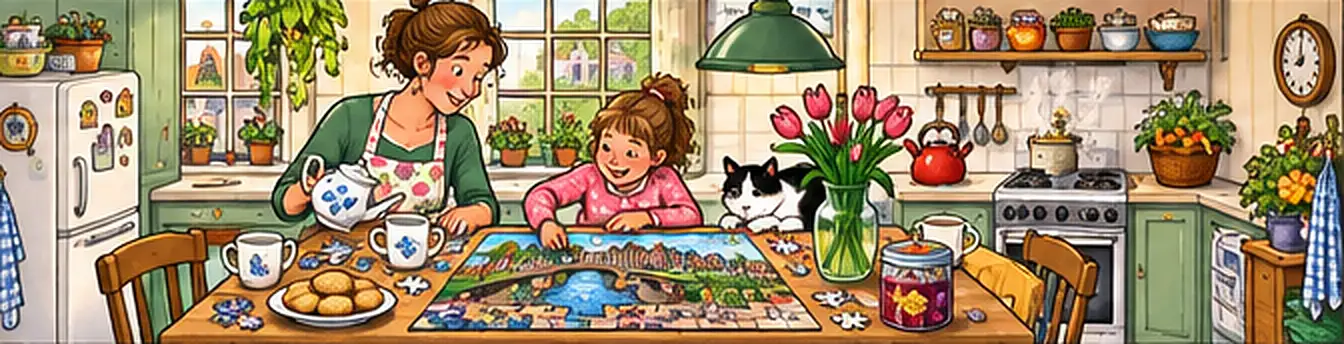
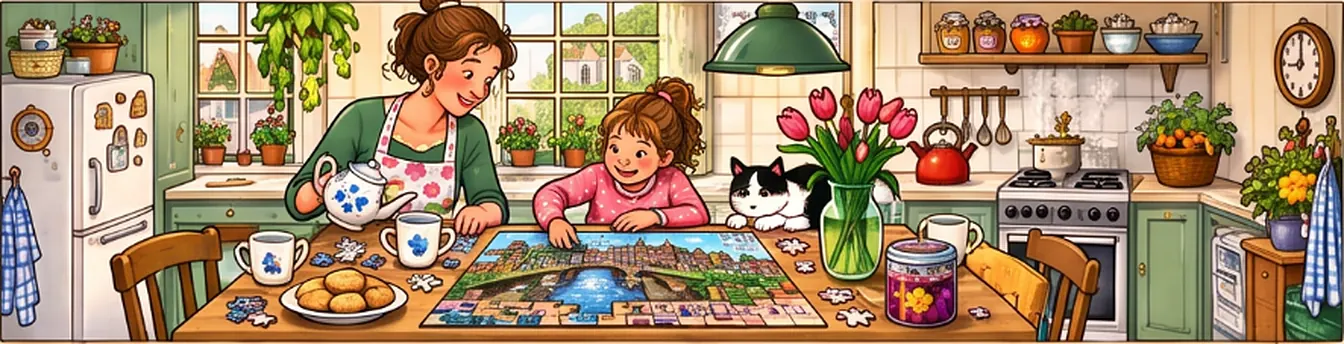
feat(web): use the owner's new house art and Dorpsstraat lid
Replace the hero with the owner's 2000px render, cut out on a transparent sky,
with its clipped roof finished from its own tiles under a Dutch break in the
pitch. Re-measure the floors, pins and phone window for the new geometry. Re-cut
the kitchen, living room, bedroom and attic crops from the same art, and make the
Dorpsstraat cover the owner's real box lid. Keep both originals in assets/.

Intent: the first screen stays sharp on large and retina screens and shows boxes
in more of the house, while every promise holds: all three pins on the first
screen from 1280x720 up, each pin on its own floor on a phone, the roof clear of
the headline, and no sky halo on the dark theme. The file is smaller than the art
it replaces. The roof's finish lives in the webp, not in code, so a future render
with headroom simply replaces it after the same measurements.

diff --git a/apps/web/src/components/marketing/home/hero.tsx b/apps/web/src/components/marketing/home/hero.tsx
@@ -34,7 +34,7 @@ const PUZZLES = {
 // A box's width in the shelf's cover column follows its piece count, so the row reads as real boxes.
 const BOX_WIDTH = { 500: "w-[68%]", 1000: "w-[85%]", 2000: "w-full" } as const;
 
-// Each person lives on a floor of house-cut.webp (1536x950) and is who the art shows there. `floor` is
+// Each person lives on a floor of house-cut.webp (2000x1228) and is who the art shows there. `floor` is
 // the height the drawer's notch points at, in art pixels. `pin` places the button on the art, high in
 // the floor so the lowest pin clears the fold on a short laptop; `phonePin` keeps the larger-looking
 // button wholly on its floor and clear of the wall at phone scale. `hole` is the even-odd polygon that
@@ -43,29 +43,29 @@ const PEOPLE = [
   {
     id: "sanne",
     name: "Sanne",
-    floor: 330,
+    floor: 427,
     boxes: ["theekoepel", "tulpen", "eendenvijver", "grachtje"],
-    pin: { x: "41.7%", y: "28.6%" },
-    phonePin: { x: "36%", y: "37.2%" },
-    hole: "polygon(evenodd,0 0,100% 0,100% 100%,0 100%,0 0,27.55% 25.6%,71.95% 25.6%,71.95% 44.1%,27.55% 44.1%,27.55% 25.6%)",
+    pin: { x: "36%", y: "31%" },
+    phonePin: { x: "32.4%", y: "36.8%" },
+    hole: "polygon(evenodd,0 0,100% 0,100% 100%,0 100%,0 0,27.6% 25.41%,71.9% 25.41%,71.9% 44.14%,27.6% 44.14%,27.6% 25.41%)",
   },
   {
     id: "opa",
     name: "Opa Wim",
-    floor: 520,
+    floor: 675,
     boxes: ["dorpsstraat", "molen", "grachtje"],
-    pin: { x: "30.6%", y: "56.6%" },
-    phonePin: { x: "35%", y: "56.7%" },
-    hole: "polygon(evenodd,0 0,100% 0,100% 100%,0 100%,0 0,27.55% 45%,71.95% 45%,71.95% 64.85%,27.55% 64.85%,27.55% 45%)",
+    pin: { x: "32%", y: "51.5%" },
+    phonePin: { x: "33.85%", y: "56.35%" },
+    hole: "polygon(evenodd,0 0,100% 0,100% 100%,0 100%,0 0,27.6% 44.95%,71.9% 44.95%,71.9% 65.07%,27.6% 65.07%,27.6% 44.95%)",
   },
   {
     id: "marieke",
     name: "Marieke",
-    floor: 690,
+    floor: 922,
     boxes: ["amsterdam", "tulpen"],
-    pin: { x: "34.4%", y: "67.4%" },
-    phonePin: { x: "35%", y: "77.5%" },
-    hole: "polygon(evenodd,0 0,100% 0,100% 100%,0 100%,0 0,27.55% 65.75%,71.95% 65.75%,71.95% 84.15%,27.55% 84.15%,27.55% 65.75%)",
+    pin: { x: "34%", y: "69.8%" },
+    phonePin: { x: "33.45%", y: "77.2%" },
+    hole: "polygon(evenodd,0 0,100% 0,100% 100%,0 100%,0 0,27.6% 65.8%,71.9% 65.8%,71.9% 84.45%,27.6% 84.45%,27.6% 65.8%)",
   },
 ] as const satisfies ReadonlyArray<{
   id: string;
@@ -148,7 +148,7 @@ function ShelfRow({
 
 // The street with the fronts off: the sky's text, then the cutaway house edge to edge, with a pin on
 // each of three floors. Choosing a pin strikes that floor forward and docks that person's shelf.
-// Phone: title, the house alone (a window on the art from x 370 to 1140 and y 80 to 810), sentence,
+// Phone: title, the house alone (a window on the art from x 495 to 1495 and y 0 to 1040), sentence,
 // actions, shelf.
 export function Hero() {
   const t = useTranslations("marketing");
@@ -184,7 +184,7 @@ export function Hero() {
       const drawer = drawerRef.current;
       if (!art || !drawer) return;
       const box = drawer.getBoundingClientRect();
-      const y = art.top + person.floor * (art.width / 1536) - box.top - 18;
+      const y = art.top + person.floor * (art.width / 2000) - box.top - 18;
       const notch = Math.max(12, Math.min(box.height - 48, y));
       drawer.style.setProperty("--notch", `${notch}px`);
     };
@@ -240,15 +240,15 @@ export function Hero() {
         </div>
       </div>
 
-      <div className="contents min-[760px]:relative min-[760px]:block min-[1180px]:mt-[calc(100cqw/1536*-86+14px)]">
-        <div className="relative order-2 h-[calc(100cqw/770*730)] overflow-hidden min-[760px]:h-auto min-[760px]:overflow-visible">
-          <div className="absolute top-[calc(100cqw/770*-80)] left-[calc(100cqw/770*-370)] w-[calc(100cqw/770*1536)] min-[760px]:relative min-[760px]:top-0 min-[760px]:left-0 min-[760px]:w-full">
+      <div className="contents min-[760px]:relative min-[760px]:block min-[1180px]:mt-[calc(100cqw/2000*-112+14px)]">
+        <div className="relative order-2 h-[calc(100cqw/1000*1040)] overflow-hidden min-[760px]:h-auto min-[760px]:overflow-visible">
+          <div className="absolute top-0 left-[calc(100cqw/1000*-495)] w-[calc(100cqw/1000*2000)] min-[760px]:relative min-[760px]:top-0 min-[760px]:left-0 min-[760px]:w-full">
             <img
               ref={artRef}
               src={houseCut}
               alt={t("home.heroAlt")}
-              width={1536}
-              height={950}
+              width={2000}
+              height={1228}
               fetchPriority="high"
               decoding="async"
               className="block h-auto w-full max-w-none"
@@ -304,7 +304,7 @@ export function Hero() {
           </div>
         </div>
 
-        <div className="contents min-[1180px]:pointer-events-none min-[1180px]:absolute min-[1180px]:top-[calc(100cqw/1536*86-14px)] min-[1180px]:right-0 min-[1180px]:bottom-0 min-[1180px]:flex min-[1180px]:w-[25.8%] min-[1180px]:flex-col">
+        <div className="contents min-[1180px]:pointer-events-none min-[1180px]:absolute min-[1180px]:top-[calc(100cqw/2000*112-14px)] min-[1180px]:right-0 min-[1180px]:bottom-0 min-[1180px]:flex min-[1180px]:w-[25.8%] min-[1180px]:flex-col">
           <aside
             ref={drawerRef}
             aria-labelledby="hero-shelf-title"

diff --git a/apps/web/src/components/marketing/home/hero.test.tsx b/apps/web/src/components/marketing/home/hero.test.tsx
@@ -86,8 +86,8 @@ describe("Hero", () => {
     const images = render("en").match(/<img[^>]*>/g) ?? [];
     const house = images.filter((img) => img.includes("fetchPriority"));
     expect(house).toHaveLength(1);
-    expect(house[0]).toContain('width="1536"');
-    expect(house[0]).toContain('height="950"');
+    expect(house[0]).toContain('width="2000"');
+    expect(house[0]).toContain('height="1228"');
     expect(house[0]).not.toContain("lazy");
     for (const img of images.filter((i) => !i.includes("fetchPriority"))) {
       expect(img).toContain('loading="lazy"');

diff --git a/apps/web/PRODUCT.md b/apps/web/PRODUCT.md
@@ -40,7 +40,7 @@ A home with physical boxes on a shelf, a kitchen table with a puzzle in progress
 
 ## Evidence on Hand
 
-- Original illustrated scenes in the JigSwap style, in `assets/`: `dutch-vilage-street.png`, `puzzle-house.png`, `puzzle-swap-party.png`, `puzzle-party-2.png`, `puzzle-party-3.png`. The owner approved them as the main imagery. Crops ship from `apps/web/src/components/marketing/assets/art/`.
+- Original illustrated scenes in the JigSwap style, in `assets/`: `dutch-vilage-street.png`, `puzzle-house.png`, `puzzle-swap-party.png`, `puzzle-party-2.png`, `puzzle-party-3.png`, plus newer renders `puzzle-house-2.png` and `lids/dorpsstraat.png`. The owner approved them as the main imagery. Crops ship from `apps/web/src/components/marketing/assets/art/`.
 - Live platform counts from the real database: members, catalogue puzzles, puzzles on shelves. The owner keeps these on the home page, whatever their current size.
 - The family's own quote and the kitchen-table story on About.
 - There are no customer testimonials, press mentions, partner logos or pricing. Do not invent any.
